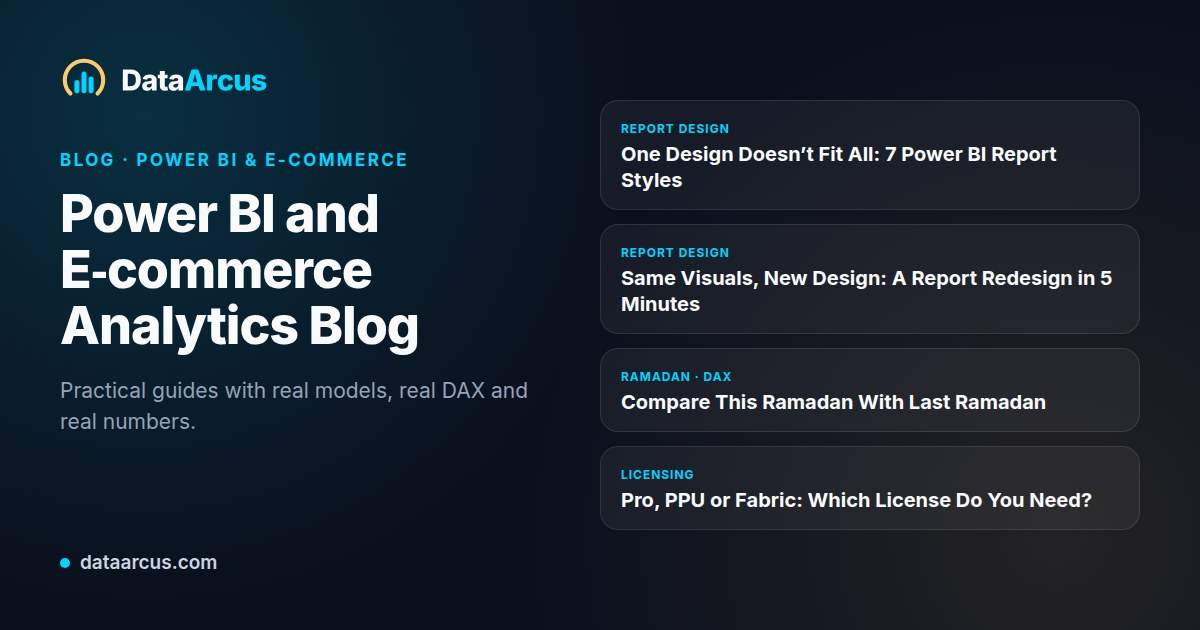
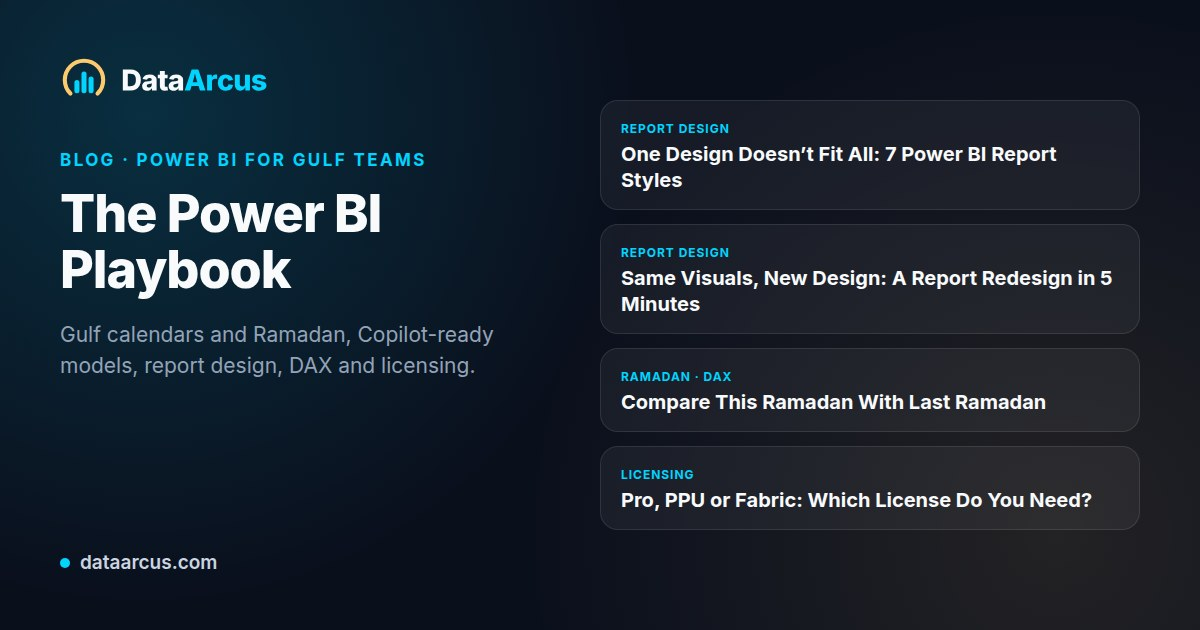
Blog: The Power BI Playbook, for Gulf teams (the owner's go: was The E-commerce Analytics Playbook)
The blog's title, header line, search description, keywords, structured data, newsletter
box and share image now describe what it covers: Gulf calendars and Ramadan,
Copilot-ready models, report design, DAX and licensing. English and Arabic. The section
line under 'Latest from the Playbook' no longer repeats the header. The newsletter no
longer promises 'monthly'. Article titles are unchanged.

Claude-Session: https://claude.ai/code/session_015Q77oNR7YVFznptSuZoZZ2

Changed region(s): [[0.0308, 0.3016, 0.4625, 0.6333], [0.185, 0.2413, 0.37, 0.2714], [0.0308, 0.6635, 0.1542, 0.6937]]

diff --git a/assets/js/translations/blog.min.js b/assets/js/translations/blog.min.js
@@ -1,1 +1,1 @@
-window.blogTranslations={en:{attrs:{search:"Search posts"},meta:{title:"Power BI and E-commerce Analytics Blog - DataArcus",description:"Practical guides for MENA e-commerce leaders on Power BI, data modeling, and analytics strategy. Learn to track CLV, optimize marketing ROI, and more.",keywords:"e-commerce analytics blog, Power BI for e-commerce, Shopify analytics, MENA e-commerce, customer lifetime value, DataArcus blog",author:"DataArcus","og:type":"website","og:title":"Power BI and E-commerce Analytics Blog - DataArcus","og:description":"Practical guides for MENA e-commerce leaders on Power BI, data modeling, and analytics strategy. Learn to track CLV, optimize marketing ROI, and more.","og:url":"https://dataarcus.com/blog.html","og:site_name":"DataArcus","og:image":"https://dataarcus.com/assets/img/og/blog.jpg","og:image:alt":"The DataArcus logo showing animated data bars and the brand name.","og:locale":"en_US","twitter:card":"summary_large_image","twitter:title":"Power BI and E-commerce Analytics Blog - DataArcus","twitter:description":"Practical guides for MENA e-commerce leaders on Power BI, data modeling, and analytics strategy. Learn to track CLV, optimize marketing ROI, and more.","twitter:image":"https://dataarcus.com/assets/img/og/blog.jpg","twitter:image:alt":"The DataArcus logo showing animated data bars and the brand name.",canonical:"https://dataarcus.com/blog.html"},header:{title:"The E-commerce Analytics Playbook",subtitle:"Practical, engineering-first guides for MENA e-commerce leaders on Power BI, data modeling, and growth strategy, written by someone who builds them every day."},filters:{all:"All",gulf:"Gulf & Ramadan",ai:"Copilot & AI",design:"Report design",modelling:"Modelling & DAX",strategy:"Strategy"},topics:{gulf:"GULF & RAMADAN",ai:"COPILOT & AI",design:"REPORT DESIGN",modelling:"MODELLING & DAX",strategy:"STRATEGY"},blog:{sectionTitle:"Latest from the Playbook",sectionSubtitle:"Practical Power BI guides from real work: Gulf calendars and Ramadan, Copilot-ready models, report design, DAX and licensing.",searchPlaceholder:"Search playbooks…",noResultsTitle:"No posts found",noResultsSubtext:"Try adjusting your search terms or filters."},posts:{gulfCalendar:{badge:"GULF CALENDAR",title:"A Gulf Calendar in Power BI: Hijri Dates, Ramadan, Eid and the Right Weekend",date:"October 3, 2026",excerpt:"Ramadan and Eid move, and the UAE changed its weekend in 2022. One DAX calendar with Hijri dates, announced Ramadan and Eid days, each country's weekend, and an Eid window measure.",button:"Read Playbook"},aiReady:{badge:"COPILOT & AI",title:"Is Your Power BI Model Ready for AI? A 7-Point Check",date:"October 2, 2026",excerpt:"Copilot, data agents and the new Power BI apps all answer from your semantic model. The 7 things to fix first, from names and descriptions to Prep data for AI.",button:"Read Playbook"},reportStyles:{badge:"REPORT DESIGN",title:"One Design Doesn’t Fit All: 7 Power BI Report Styles",date:"September 29, 2026",excerpt:"Executive, sales, finance, marketing, operations, HR and customer service reports each answer a different question. The 7 styles with example pages, and a 3-question quiz to pick yours.",button:"Read Playbook"},reportRedesign:{badge:"REPORT DESIGN",title:"Same Visuals, New Design: How We Redesigned a Power BI Report in 5 Minutes",date:"September 28, 2026",excerpt:"A leads report with the right visuals but loud colours and a messy layout. The five design changes that fixed it, and how to make them in 5 minutes with a free tool.",button:"Read Playbook"},modelHealth:{badge:"BEST PRACTICE",title:"We Ran a Health Check on a Microsoft Power BI Sample. It Scored 84.",date:"September 25, 2026",excerpt:"Microsoft's public COVID-19 sample, checked in under a second: a quarter of its columns unused, two bookmarks pointing at a deleted column and auto date/time left on. What we found and how to check yours.",button:"Read Playbook"},ramadanSales:{badge:"POWER BI",title:"Ramadan Sales in Power BI: Compare This Ramadan With Last Ramadan",date:"September 23, 2026",excerpt:"SAMEPERIODLASTYEAR compares March with March, but Ramadan moved 11 days. The Hijri calendar and the one DAX measure that line up every Ramadan day by day.",button:"Read Playbook"},licensingGuide:{badge:"STRATEGY",title:"Power BI Pro, Premium Per User or Fabric: Which License Do You Actually Need?",date:"September 23, 2026",excerpt:"One number decides your Power BI license: how many people only view reports. Current prices, the F64 break-even point and a worked example.",button:"Read Playbook"},journeyAttribution:{badge:"DATA ENGINEERING",title:"Resolve Once, Hydrate Many: A DAX Pattern for Lead Attribution",date:"September 1, 2026",excerpt:"Why matching the same lead five times produces disagreeing KPIs, and the single-resolution DAX pattern that matched every lead exactly before replacing scattered join logic.",button:"Read Playbook"},evm:{badge:"PROJECT ANALYTICS",title:'Beyond "Traffic Lights": How Earned Value Management (EVM) Predicts Project Risk',date:"December 10, 2025",excerpt:"Most project dashboards tell you what happened yesterday. Learn how to use CPI and SPI to mathematically forecast tomorrow's delays and budget overruns.",button:"Read Playbook"},shopify:{badge:"STRATEGY",title:"The Ultimate Shopify Dashboard: How to Build a Single Source of Truth in Power BI",date:"October 04, 2025",excerpt:"A playbook for e-commerce leaders on building a single source of truth from Shopify data in Power BI to track sales, marketing ROI, and customer behavior.",button:"Read Playbook"},kpis:{badge:"STRATEGY",title:"5 Marketing KPIs Your E-commerce Store is Ignoring",date:"September 15, 2025",excerpt:"Our new playbook dives into the advanced marketing analytics, including Customer Acquisition Cost (CAC) and Marketing Efficiency Ratio (MER), that drive profitable growth.",button:"Read Playbook"},etlpq:{badge:"DATA ENGINEERING",title:"ETL vs Power Query: The Right Data Strategy for Your E-commerce Store",date:"September 4, 2025",excerpt:"A practical framework for deciding when to use engineered pipelines for your Shopify/backend data vs. keeping logic in Power Query for marketing analytics.",button:"Read Playbook"},clv:{badge:"STRATEGY",title:"The One Metric That Defines Your E-commerce Future (And How to Track It)",date:"August 23, 2025",excerpt:"Why Customer Lifetime Value (not just revenue) is the north-star KPI for e-commerce growth, and a concrete path to model it in Power BI.",button:"Read Playbook"}},subscribe:{title:"Get the Next E-commerce Playbook",badge:"NO SPAM",copy:"A monthly, high-signal playbook on Power BI engineering and growth strategy for e-commerce leaders. No fluff-just what works.",button:"Subscribe for Free"}},ar:{attrs:{search:"ابحث في المقالات"},meta:{title:"مدونة Power BI وتحليلات التجارة الإلكترونية - داتا أركوس",description:"أدلة عملية لقادة التجارة الإلكترونية في الشرق الأوسط حول Power BI ونمذجة البيانات: تتبّع القيمة الدائمة للعميل وحسّن عائد التسويق والمزيد.",keywords:"مدونة تحليلات التجارة الإلكترونية, Power BI للتجارة الإلكترونية, تحليلات Shopify, التجارة الإلكترونية في الشرق الأوسط, القيمة الدائمة للعميل, مدونة DataArcus",author:"داتا أركوس","og:type":"website","og:title":"مدونة Power BI وتحليلات التجارة الإلكترونية - داتا أركوس","og:description":"أدلة عملية لقادة التجارة الإلكترونية في الشرق الأوسط حول Power BI ونمذجة البيانات: تتبّع القيمة الدائمة للعميل وحسّن عائد التسويق والمزيد.","og:url":"https://dataarcus.com/blog.html","og:site_name":"داتا أركوس","og:image":"https://dataarcus.com/assets/img/og/blog.jpg","og:image:alt":"شعار داتا أركوس مع أعمدة بيانات متحركة واسم العلامة التجارية.","og:locale":"ar_EG","twitter:card":"summary_large_image","twitter:title":"مدونة Power BI وتحليلات التجارة الإلكترونية - داتا أركوس","twitter:description":"أدلة عملية لقادة التجارة الإلكترونية في الشرق الأوسط حول Power BI ونمذجة البيانات: تتبّع القيمة الدائمة للعميل وحسّن عائد التسويق والمزيد.","twitter:image":"https://dataarcus.com/assets/img/og/blog.jpg","twitter:image:alt":"شعار داتا أركوس مع أعمدة بيانات متحركة واسم العلامة التجارية.",canonical:"https://dataarcus.com/blog.html"},header:{title:"دليل تحليلات التجارة الإلكترونية",subtitle:"أدلة عملية ذات أساس هندسي لقادة التجارة الإلكترونية في الشرق الأوسط حول Power BI، ونمذجة البيانات، واستراتيجية النمو، يكتبها من يبنيها كل يوم."},filters:{all:"الكل",gulf:"الخليج ورمضان",ai:"Copilot والذكاء الاصطناعي",design:"تصميم التقارير",modelling:"النمذجة و DAX",strategy:"استراتيجية"},topics:{gulf:"الخليج ورمضان",ai:"Copilot والذكاء الاصطناعي",design:"تصميم التقارير",modelling:"النمذجة و DAX",strategy:"استراتيجية"},blog:{sectionTitle:"أحدث الأدلة الإرشادية",sectionSubtitle:"أدلة Power BI عملية من عمل حقيقي: التقويم الخليجي ورمضان، نماذج جاهزة لـ Copilot، تصميم التقارير، DAX والتراخيص.",searchPlaceholder:"ابحث في الأدلة…",noResultsTitle:"لم يتم العثور على مقالات",noResultsSubtext:"حاول تعديل كلمات البحث أو الفلاتر."},posts:{gulfCalendar:{badge:"التقويم الخليجي",title:"تقويم خليجي في Power BI: التاريخ الهجري ورمضان والعيد والعطلة الصحيحة",date:"3 أكتوبر 2026",excerpt:"رمضان والعيد يتحركان، والإمارات غيّرت عطلتها في 2022. تقويم DAX واحد بالتاريخ الهجري، ومواعيد رمضان والعيد المعلنة، وعطلة كل دولة، ومقياس لفترة العيد.",button:"اقرأ الدليل"},aiReady:{badge:"Copilot والذكاء الاصطناعي",title:"هل نموذج Power BI جاهز للذكاء الاصطناعي؟ فحص من 7 نقاط",date:"2 أكتوبر 2026",excerpt:"Copilot ووكلاء البيانات وتطبيقات Power BI الجديدة كلها تجيب من نموذجك الدلالي. سبعة أمور تصلحها أولًا، من الأسماء والأوصاف إلى Prep data for AI.",button:"اقرأ الدليل"},reportStyles:{badge:"تصميم التقارير",title:"تصميم واحد لا يناسب الجميع: 7 أنماط لتقارير Power BI",date:"29 سبتمبر 2026",excerpt:"تقارير الإدارة والمبيعات والمالية والتسويق والعمليات والموارد البشرية وخدمة العملاء تجيب كل منها عن سؤال مختلف. الأنماط السبعة بصفحات أمثلة، واختبار من 3 أسئلة لاختيار نمطك.",button:"اقرأ الدليل"},reportRedesign:{badge:"تصميم التقارير",title:"نفس العناصر، تصميم جديد: كيف أعدنا تصميم تقرير Power BI في 5 دقائق",date:"28 سبتمبر 2026",excerpt:"تقرير عملاء محتملين بالعناصر الصحيحة لكن بألوان صاخبة وتخطيط فوضوي. خمسة تغييرات في التصميم أصلحته، وكيف تطبقها في 5 دقائق بأداة مجانية.",button:"اقرأ الدليل"},modelHealth:{badge:"أفضل الممارسات",title:"فحصنا صحة نموذج Power BI تجريبي من Microsoft. النتيجة: 84 من 100.",date:"25 سبتمبر 2026",excerpt:"نموذج COVID-19 التجريبي العام من Microsoft فُحص في أقل من ثانية: ربع الأعمدة غير مستخدمة، وإشارتان مرجعيتان تشيران إلى عمود محذوف، وخيار Auto date/time مفعّل. هذا ما وجدناه وكيف تفحص نموذجك.",button:"اقرأ الدليل"},ramadanSales:{badge:"Power BI",title:"مبيعات رمضان في Power BI: قارن رمضان هذا العام برمضان الماضي",date:"23 سبتمبر 2026",excerpt:"تقارن SAMEPERIODLASTYEAR مارس بمارس، لكن رمضان تحرّك 11 يومًا. التقويم الهجري ومقياس DAX الذي يطابق كل رمضان يومًا بيوم.",button:"اقرأ الدليل"},licensingGuide:{badge:"استراتيجية",title:"Power BI Pro أم Premium Per User أم Fabric: أي ترخيص تحتاجه فعلًا؟",date:"23 سبتمبر 2026",excerpt:"رقم واحد يحسم ترخيص Power BI: عدد من يشاهدون التقارير فقط. الأسعار الحالية ونقطة التعادل لـ F64 ومثال عملي.",button:"اقرأ الدليل"},journeyAttribution:{badge:"هندسة البيانات",title:"حلّ مرة واحدة، غذِّ كل مكان: نمط DAX لعزو العملاء المحتملين",date:"1 سبتمبر 2026",excerpt:"لماذا تُنتج مطابقة نفس العميل المحتمل خمس مرات مؤشرات أداء متضاربة، ونمط DAX الذي وثّق تطابق كل عميل محتمل قبل استبدال منطق الربط المتناثر.",button:"اقرأ الدليل"},evm:{badge:"تحليلات المشاريع",title:'ما وراء "إشارات المرور": كيف تتنبأ إدارة القيمة المكتسبة (EVM) بمخاطر المشروع',date:"10 ديسمبر 2025",excerpt:"تخبرك معظم لوحات المعلومات بما حدث بالأمس. تعلم كيف تستخدم CPI و SPI للتنبؤ رياضيًا بالتأخيرات وتجاوز الميزانية قبل حدوثها.",button:"اقرأ الدليل"},shopify:{badge:"استراتيجية",title:"دليل لقادة التجارة الإلكترونية حول بناء مصدر موحد للحقيقة من بيانات Shopify في Power BI.",date:"04 اكتوبر 2025",excerpt:"دليل لقادة التجارة الإلكترونية حول بناء مصدر موحد للحقيقة من بيانات Shopify في Power BI لتتبع المبيعات وعائد الاستثمار التسويقي وسلوك العملاء.",button:"اقرأ الدليل"},kpis:{badge:"استراتيجية",title:"5 مؤشرات أداء تسويقية يتجاهلها متجرك الإلكتروني",date:"15 سبتمبر 2025",excerpt:"يتعمق دليلنا الجديد في تحليلات التسويق المتقدمة، بما في ذلك تكلفة اكتساب العملاء (CAC) ونسبة كفاءة التسويق (MER)، التي تدفع النمو المربح.",button:"اقرأ الدليل"},etlpq:{badge:"هندسة البيانات",title:"ETL مقابل Power Query: استراتيجية البيانات الصحيحة لمتجرك الإلكتروني",date:"4 سبتمبر 2025",excerpt:"إطار عملي لاتخاذ قرار بشأن متى تستخدم خطوط البيانات الهندسية لبيانات Shopify ومتى تحتفظ بالمنطق في Power Query لتحليلات التسويق.",button:"اقرأ الدليل"},clv:{badge:"استراتيجية",title:"المقياس الوحيد الذي يحدد مستقبل تجارتك الإلكترونية (وكيفية تتبعه)",date:"23 أغسطس 2025",excerpt:"لماذا تُعد القيمة الدائمة للعميل (وليس فقط الإيرادات) هي مؤشر الأداء الرئيسي لنمو التجارة الإلكترونية، ومسار عملي لنمذجتها في Power BI.",button:"اقرأ الدليل"}},subscribe:{title:"احصل على الدليل القادم لمتجرك",badge:"لا رسائل مزعجة",copy:"دليل شهري عالي القيمة حول هندسة Power BI واستراتيجية النمو لقادة التجارة الإلكترونية. لا حشو-فقط ما هو فعال.",button:"اشترك مجانًا"}}};
+window.blogTranslations={en:{attrs:{search:"Search posts"},meta:{title:"The Power BI Playbook: Guides for Gulf Teams - DataArcus",description:"Practical Power BI guides from real work for teams in the Gulf: Gulf calendars and Ramadan, Copilot-ready models, report design, DAX and licensing.",keywords:"Power BI blog, Power BI Gulf, Hijri calendar Power BI, Ramadan sales Power BI, Copilot Power BI, Power BI report design, DAX, Power BI licensing, DataArcus blog",author:"DataArcus","og:type":"website","og:title":"The Power BI Playbook: Guides for Gulf Teams - DataArcus","og:description":"Practical Power BI guides from real work for teams in the Gulf: Gulf calendars and Ramadan, Copilot-ready models, report design, DAX and licensing.","og:url":"https://dataarcus.com/blog.html","og:site_name":"DataArcus","og:image":"https://dataarcus.com/assets/img/og/blog.jpg","og:image:alt":"The DataArcus logo showing animated data bars and the brand name.","og:locale":"en_US","twitter:card":"summary_large_image","twitter:title":"The Power BI Playbook: Guides for Gulf Teams - DataArcus","twitter:description":"Practical Power BI guides from real work for teams in the Gulf: Gulf calendars and Ramadan, Copilot-ready models, report design, DAX and licensing.","twitter:image":"https://dataarcus.com/assets/img/og/blog.jpg","twitter:image:alt":"The DataArcus logo showing animated data bars and the brand name.",canonical:"https://dataarcus.com/blog.html"},header:{title:"The Power BI Playbook",subtitle:"Practical Power BI guides from real work for teams in the Gulf: Gulf calendars and Ramadan, Copilot-ready models, report design, DAX and licensing."},filters:{all:"All",gulf:"Gulf & Ramadan",ai:"Copilot & AI",design:"Report design",modelling:"Modelling & DAX",strategy:"Strategy"},topics:{gulf:"GULF & RAMADAN",ai:"COPILOT & AI",design:"REPORT DESIGN",modelling:"MODELLING & DAX",strategy:"STRATEGY"},blog:{sectionTitle:"Latest from the Playbook",sectionSubtitle:"Newest first. Pick a topic or search.",searchPlaceholder:"Search playbooks…",noResultsTitle:"No posts found",noResultsSubtext:"Try adjusting your search terms or filters."},posts:{gulfCalendar:{badge:"GULF CALENDAR",title:"A Gulf Calendar in Power BI: Hijri Dates, Ramadan, Eid and the Right Weekend",date:"October 3, 2026",excerpt:"Ramadan and Eid move, and the UAE changed its weekend in 2022. One DAX calendar with Hijri dates, announced Ramadan and Eid days, each country's weekend, and an Eid window measure.",button:"Read Playbook"},aiReady:{badge:"COPILOT & AI",title:"Is Your Power BI Model Ready for AI? A 7-Point Check",date:"October 2, 2026",excerpt:"Copilot, data agents and the new Power BI apps all answer from your semantic model. The 7 things to fix first, from names and descriptions to Prep data for AI.",button:"Read Playbook"},reportStyles:{badge:"REPORT DESIGN",title:"One Design Doesn’t Fit All: 7 Power BI Report Styles",date:"September 29, 2026",excerpt:"Executive, sales, finance, marketing, operations, HR and customer service reports each answer a different question. The 7 styles with example pages, and a 3-question quiz to pick yours.",button:"Read Playbook"},reportRedesign:{badge:"REPORT DESIGN",title:"Same Visuals, New Design: How We Redesigned a Power BI Report in 5 Minutes",date:"September 28, 2026",excerpt:"A leads report with the right visuals but loud colours and a messy layout. The five design changes that fixed it, and how to make them in 5 minutes with a free tool.",button:"Read Playbook"},modelHealth:{badge:"BEST PRACTICE",title:"We Ran a Health Check on a Microsoft Power BI Sample. It Scored 84.",date:"September 25, 2026",excerpt:"Microsoft's public COVID-19 sample, checked in under a second: a quarter of its columns unused, two bookmarks pointing at a deleted column and auto date/time left on. What we found and how to check yours.",button:"Read Playbook"},ramadanSales:{badge:"POWER BI",title:"Ramadan Sales in Power BI: Compare This Ramadan With Last Ramadan",date:"September 23, 2026",excerpt:"SAMEPERIODLASTYEAR compares March with March, but Ramadan moved 11 days. The Hijri calendar and the one DAX measure that line up every Ramadan day by day.",button:"Read Playbook"},licensingGuide:{badge:"STRATEGY",title:"Power BI Pro, Premium Per User or Fabric: Which License Do You Actually Need?",date:"September 23, 2026",excerpt:"One number decides your Power BI license: how many people only view reports. Current prices, the F64 break-even point and a worked example.",button:"Read Playbook"},journeyAttribution:{badge:"DATA ENGINEERING",title:"Resolve Once, Hydrate Many: A DAX Pattern for Lead Attribution",date:"September 1, 2026",excerpt:"Why matching the same lead five times produces disagreeing KPIs, and the single-resolution DAX pattern that matched every lead exactly before replacing scattered join logic.",button:"Read Playbook"},evm:{badge:"PROJECT ANALYTICS",title:'Beyond "Traffic Lights": How Earned Value Management (EVM) Predicts Project Risk',date:"December 10, 2025",excerpt:"Most project dashboards tell you what happened yesterday. Learn how to use CPI and SPI to mathematically forecast tomorrow's delays and budget overruns.",button:"Read Playbook"},shopify:{badge:"STRATEGY",title:"The Ultimate Shopify Dashboard: How to Build a Single Source of Truth in Power BI",date:"October 04, 2025",excerpt:"A playbook for e-commerce leaders on building a single source of truth from Shopify data in Power BI to track sales, marketing ROI, and customer behavior.",button:"Read Playbook"},kpis:{badge:"STRATEGY",title:"5 Marketing KPIs Your E-commerce Store is Ignoring",date:"September 15, 2025",excerpt:"Our new playbook dives into the advanced marketing analytics, including Customer Acquisition Cost (CAC) and Marketing Efficiency Ratio (MER), that drive profitable growth.",button:"Read Playbook"},etlpq:{badge:"DATA ENGINEERING",title:"ETL vs Power Query: The Right Data Strategy for Your E-commerce Store",date:"September 4, 2025",excerpt:"A practical framework for deciding when to use engineered pipelines for your Shopify/backend data vs. keeping logic in Power Query for marketing analytics.",button:"Read Playbook"},clv:{badge:"STRATEGY",title:"The One Metric That Defines Your E-commerce Future (And How to Track It)",date:"August 23, 2025",excerpt:"Why Customer Lifetime Value (not just revenue) is the north-star KPI for e-commerce growth, and a concrete path to model it in Power BI.",button:"Read Playbook"}},subscribe:{title:"Get the Next Power BI Guide",badge:"NO SPAM",copy:"New guides as they come out: Power BI for teams in the Gulf, from real work. No fluff, just what works.",button:"Subscribe for Free"}},ar:{attrs:{search:"ابحث في المقالات"},meta:{title:"دليل Power BI: أدلة لفرق الخليج - داتا أركوس",description:"أدلة Power BI عملية من عمل حقيقي لفرق الخليج: التقويم الخليجي ورمضان، نماذج جاهزة لـ Copilot، تصميم التقارير، DAX والتراخيص.",keywords:"مدونة Power BI, Power BI الخليج, التقويم الهجري في Power BI, مبيعات رمضان في Power BI, Copilot في Power BI, تصميم تقارير Power BI, DAX, تراخيص Power BI, مدونة DataArcus",author:"داتا أركوس","og:type":"website","og:title":"دليل Power BI: أدلة لفرق الخليج - داتا أركوس","og:description":"أدلة Power BI عملية من عمل حقيقي لفرق الخليج: التقويم الخليجي ورمضان، نماذج جاهزة لـ Copilot، تصميم التقارير، DAX والتراخيص.","og:url":"https://dataarcus.com/blog.html","og:site_name":"داتا أركوس","og:image":"https://dataarcus.com/assets/img/og/blog.jpg","og:image:alt":"شعار داتا أركوس مع أعمدة بيانات متحركة واسم العلامة التجارية.","og:locale":"ar_EG","twitter:card":"summary_large_image","twitter:title":"دليل Power BI: أدلة لفرق الخليج - داتا أركوس","twitter:description":"أدلة Power BI عملية من عمل حقيقي لفرق الخليج: التقويم الخليجي ورمضان، نماذج جاهزة لـ Copilot، تصميم التقارير، DAX والتراخيص.","twitter:image":"https://dataarcus.com/assets/img/og/blog.jpg","twitter:image:alt":"شعار داتا أركوس مع أعمدة بيانات متحركة واسم العلامة التجارية.",canonical:"https://dataarcus.com/blog.html"},header:{title:"دليل Power BI",subtitle:"أدلة Power BI عملية من عمل حقيقي لفرق الخليج: التقويم الخليجي ورمضان، نماذج جاهزة لـ Copilot، تصميم التقارير، DAX والتراخيص."},filters:{all:"الكل",gulf:"الخليج ورمضان",ai:"Copilot والذكاء الاصطناعي",design:"تصميم التقارير",modelling:"النمذجة و DAX",strategy:"استراتيجية"},topics:{gulf:"الخليج ورمضان",ai:"Copilot والذكاء الاصطناعي",design:"تصميم التقارير",modelling:"النمذجة و DAX",strategy:"استراتيجية"},blog:{sectionTitle:"أحدث الأدلة الإرشادية",sectionSubtitle:"الأحدث أولاً. اختر موضوعًا أو ابحث.",searchPlaceholder:"ابحث في الأدلة…",noResultsTitle:"لم يتم العثور على مقالات",noResultsSubtext:"حاول تعديل كلمات البحث أو الفلاتر."},posts:{gulfCalendar:{badge:"التقويم الخليجي",title:"تقويم خليجي في Power BI: التاريخ الهجري ورمضان والعيد والعطلة الصحيحة",date:"3 أكتوبر 2026",excerpt:"رمضان والعيد يتحركان، والإمارات غيّرت عطلتها في 2022. تقويم DAX واحد بالتاريخ الهجري، ومواعيد رمضان والعيد المعلنة، وعطلة كل دولة، ومقياس لفترة العيد.",button:"اقرأ الدليل"},aiReady:{badge:"Copilot والذكاء الاصطناعي",title:"هل نموذج Power BI جاهز للذكاء الاصطناعي؟ فحص من 7 نقاط",date:"2 أكتوبر 2026",excerpt:"Copilot ووكلاء البيانات وتطبيقات Power BI الجديدة كلها تجيب من نموذجك الدلالي. سبعة أمور تصلحها أولًا، من الأسماء والأوصاف إلى Prep data for AI.",button:"اقرأ الدليل"},reportStyles:{badge:"تصميم التقارير",title:"تصميم واحد لا يناسب الجميع: 7 أنماط لتقارير Power BI",date:"29 سبتمبر 2026",excerpt:"تقارير الإدارة والمبيعات والمالية والتسويق والعمليات والموارد البشرية وخدمة العملاء تجيب كل منها عن سؤال مختلف. الأنماط السبعة بصفحات أمثلة، واختبار من 3 أسئلة لاختيار نمطك.",button:"اقرأ الدليل"},reportRedesign:{badge:"تصميم التقارير",title:"نفس العناصر، تصميم جديد: كيف أعدنا تصميم تقرير Power BI في 5 دقائق",date:"28 سبتمبر 2026",excerpt:"تقرير عملاء محتملين بالعناصر الصحيحة لكن بألوان صاخبة وتخطيط فوضوي. خمسة تغييرات في التصميم أصلحته، وكيف تطبقها في 5 دقائق بأداة مجانية.",button:"اقرأ الدليل"},modelHealth:{badge:"أفضل الممارسات",title:"فحصنا صحة نموذج Power BI تجريبي من Microsoft. النتيجة: 84 من 100.",date:"25 سبتمبر 2026",excerpt:"نموذج COVID-19 التجريبي العام من Microsoft فُحص في أقل من ثانية: ربع الأعمدة غير مستخدمة، وإشارتان مرجعيتان تشيران إلى عمود محذوف، وخيار Auto date/time مفعّل. هذا ما وجدناه وكيف تفحص نموذجك.",button:"اقرأ الدليل"},ramadanSales:{badge:"Power BI",title:"مبيعات رمضان في Power BI: قارن رمضان هذا العام برمضان الماضي",date:"23 سبتمبر 2026",excerpt:"تقارن SAMEPERIODLASTYEAR مارس بمارس، لكن رمضان تحرّك 11 يومًا. التقويم الهجري ومقياس DAX الذي يطابق كل رمضان يومًا بيوم.",button:"اقرأ الدليل"},licensingGuide:{badge:"استراتيجية",title:"Power BI Pro أم Premium Per User أم Fabric: أي ترخيص تحتاجه فعلًا؟",date:"23 سبتمبر 2026",excerpt:"رقم واحد يحسم ترخيص Power BI: عدد من يشاهدون التقارير فقط. الأسعار الحالية ونقطة التعادل لـ F64 ومثال عملي.",button:"اقرأ الدليل"},journeyAttribution:{badge:"هندسة البيانات",title:"حلّ مرة واحدة، غذِّ كل مكان: نمط DAX لعزو العملاء المحتملين",date:"1 سبتمبر 2026",excerpt:"لماذا تُنتج مطابقة نفس العميل المحتمل خمس مرات مؤشرات أداء متضاربة، ونمط DAX الذي وثّق تطابق كل عميل محتمل قبل استبدال منطق الربط المتناثر.",button:"اقرأ الدليل"},evm:{badge:"تحليلات المشاريع",title:'ما وراء "إشارات المرور": كيف تتنبأ إدارة القيمة المكتسبة (EVM) بمخاطر المشروع',date:"10 ديسمبر 2025",excerpt:"تخبرك معظم لوحات المعلومات بما حدث بالأمس. تعلم كيف تستخدم CPI و SPI للتنبؤ رياضيًا بالتأخيرات وتجاوز الميزانية قبل حدوثها.",button:"اقرأ الدليل"},shopify:{badge:"استراتيجية",title:"دليل لقادة التجارة الإلكترونية حول بناء مصدر موحد للحقيقة من بيانات Shopify في Power BI.",date:"04 اكتوبر 2025",excerpt:"دليل لقادة التجارة الإلكترونية حول بناء مصدر موحد للحقيقة من بيانات Shopify في Power BI لتتبع المبيعات وعائد الاستثمار التسويقي وسلوك العملاء.",button:"اقرأ الدليل"},kpis:{badge:"استراتيجية",title:"5 مؤشرات أداء تسويقية يتجاهلها متجرك الإلكتروني",date:"15 سبتمبر 2025",excerpt:"يتعمق دليلنا الجديد في تحليلات التسويق المتقدمة، بما في ذلك تكلفة اكتساب العملاء (CAC) ونسبة كفاءة التسويق (MER)، التي تدفع النمو المربح.",button:"اقرأ الدليل"},etlpq:{badge:"هندسة البيانات",title:"ETL مقابل Power Query: استراتيجية البيانات الصحيحة لمتجرك الإلكتروني",date:"4 سبتمبر 2025",excerpt:"إطار عملي لاتخاذ قرار بشأن متى تستخدم خطوط البيانات الهندسية لبيانات Shopify ومتى تحتفظ بالمنطق في Power Query لتحليلات التسويق.",button:"اقرأ الدليل"},clv:{badge:"استراتيجية",title:"المقياس الوحيد الذي يحدد مستقبل تجارتك الإلكترونية (وكيفية تتبعه)",date:"23 أغسطس 2025",excerpt:"لماذا تُعد القيمة الدائمة للعميل (وليس فقط الإيرادات) هي مؤشر الأداء الرئيسي لنمو التجارة الإلكترونية، ومسار عملي لنمذجتها في Power BI.",button:"اقرأ الدليل"}},subscribe:{title:"احصل على دليل Power BI القادم",badge:"لا رسائل مزعجة",copy:"أدلة جديدة عند صدورها: Power BI لفرق الخليج، من عمل حقيقي. لا حشو، فقط ما ينفع.",button:"اشترك مجانًا"}}};

diff --git a/assets/js/translations/blog.js b/assets/js/translations/blog.js
@@ -6,21 +6,21 @@ window.blogTranslations = {
     },
     // Meta (for inclusion in blog.html if needed)
     meta: {
-      title: "Power BI and E-commerce Analytics Blog - DataArcus",
-      description: "Practical guides for MENA e-commerce leaders on Power BI, data modeling, and analytics strategy. Learn to track CLV, optimize marketing ROI, and more.",
-      keywords: "e-commerce analytics blog, Power BI for e-commerce, Shopify analytics, MENA e-commerce, customer lifetime value, DataArcus blog",
+      title: "The Power BI Playbook: Guides for Gulf Teams - DataArcus",
+      description: "Practical Power BI guides from real work for teams in the Gulf: Gulf calendars and Ramadan, Copilot-ready models, report design, DAX and licensing.",
+      keywords: "Power BI blog, Power BI Gulf, Hijri calendar Power BI, Ramadan sales Power BI, Copilot Power BI, Power BI report design, DAX, Power BI licensing, DataArcus blog",
       author: "DataArcus",
       "og:type": "website",
-      "og:title": "Power BI and E-commerce Analytics Blog - DataArcus",
-      "og:description": "Practical guides for MENA e-commerce leaders on Power BI, data modeling, and analytics strategy. Learn to track CLV, optimize marketing ROI, and more.",
+      "og:title": "The Power BI Playbook: Guides for Gulf Teams - DataArcus",
+      "og:description": "Practical Power BI guides from real work for teams in the Gulf: Gulf calendars and Ramadan, Copilot-ready models, report design, DAX and licensing.",
       "og:url": "https://dataarcus.com/blog.html",
       "og:site_name": "DataArcus",
       "og:image": "https://dataarcus.com/assets/img/og/blog.jpg",
       "og:image:alt": "The DataArcus logo showing animated data bars and the brand name.",
       "og:locale": "en_US",
       "twitter:card": "summary_large_image",
-      "twitter:title": "Power BI and E-commerce Analytics Blog - DataArcus",
-      "twitter:description": "Practical guides for MENA e-commerce leaders on Power BI, data modeling, and analytics strategy. Learn to track CLV, optimize marketing ROI, and more.",
+      "twitter:title": "The Power BI Playbook: Guides for Gulf Teams - DataArcus",
+      "twitter:description": "Practical Power BI guides from real work for teams in the Gulf: Gulf calendars and Ramadan, Copilot-ready models, report design, DAX and licensing.",
       "twitter:image": "https://dataarcus.com/assets/img/og/blog.jpg",
       "twitter:image:alt": "The DataArcus logo showing animated data bars and the brand name.",
       canonical: "https://dataarcus.com/blog.html",
@@ -28,8 +28,8 @@ window.blogTranslations = {
     
     // Header
     header: {
-      title: "The E-commerce Analytics Playbook",
-      subtitle: "Practical, engineering-first guides for MENA e-commerce leaders on Power BI, data modeling, and growth strategy, written by someone who builds them every day."
+      title: "The Power BI Playbook",
+      subtitle: "Practical Power BI guides from real work for teams in the Gulf: Gulf calendars and Ramadan, Copilot-ready models, report design, DAX and licensing."
     },
 
     // Filters / Search
@@ -51,7 +51,7 @@ window.blogTranslations = {
     },
     blog: {
       sectionTitle: "Latest from the Playbook",
-      sectionSubtitle: "Practical Power BI guides from real work: Gulf calendars and Ramadan, Copilot-ready models, report design, DAX and licensing.",
+      sectionSubtitle: "Newest first. Pick a topic or search.",
       searchPlaceholder: "Search playbooks…",
       noResultsTitle: "No posts found",
       noResultsSubtext: "Try adjusting your search terms or filters."
@@ -142,9 +142,9 @@ window.blogTranslations = {
 
     // Subscribe / CTA
     subscribe: {
-      title: "Get the Next E-commerce Playbook",
+      title: "Get the Next Power BI Guide",
       badge: "NO SPAM",
-      copy: "A monthly, high-signal playbook on Power BI engineering and growth strategy for e-commerce leaders. No fluff-just what works.",
+      copy: "New guides as they come out: Power BI for teams in the Gulf, from real work. No fluff, just what works.",
       button: "Subscribe for Free"
     }
   },
@@ -155,21 +155,21 @@ window.blogTranslations = {
     },
     // Meta (AR)
     meta: {
-      title: "مدونة Power BI وتحليلات التجارة الإلكترونية - داتا أركوس",
-      description: "أدلة عملية لقادة التجارة الإلكترونية في الشرق الأوسط حول Power BI ونمذجة البيانات: تتبّع القيمة الدائمة للعميل وحسّن عائد التسويق والمزيد.",
-      keywords: "مدونة تحليلات التجارة الإلكترونية, Power BI للتجارة الإلكترونية, تحليلات Shopify, التجارة الإلكترونية في الشرق الأوسط, القيمة الدائمة للعميل, مدونة DataArcus",
+      title: "دليل Power BI: أدلة لفرق الخليج - داتا أركوس",
+      description: "أدلة Power BI عملية من عمل حقيقي لفرق الخليج: التقويم الخليجي ورمضان، نماذج جاهزة لـ Copilot، تصميم التقارير، DAX والتراخيص.",
+      keywords: "مدونة Power BI, Power BI الخليج, التقويم الهجري في Power BI, مبيعات رمضان في Power BI, Copilot في Power BI, تصميم تقارير Power BI, DAX, تراخيص Power BI, مدونة DataArcus",
       author: "داتا أركوس",
       "og:type": "website",
-      "og:title": "مدونة Power BI وتحليلات التجارة الإلكترونية - داتا أركوس",
-      "og:description": "أدلة عملية لقادة التجارة الإلكترونية في الشرق الأوسط حول Power BI ونمذجة البيانات: تتبّع القيمة الدائمة للعميل وحسّن عائد التسويق والمزيد.",
+      "og:title": "دليل Power BI: أدلة لفرق الخليج - داتا أركوس",
+      "og:description": "أدلة Power BI عملية من عمل حقيقي لفرق الخليج: التقويم الخليجي ورمضان، نماذج جاهزة لـ Copilot، تصميم التقارير، DAX والتراخيص.",
       "og:url": "https://dataarcus.com/blog.html",
       "og:site_name": "داتا أركوس",
       "og:image": "https://dataarcus.com/assets/img/og/blog.jpg",
       "og:image:alt": "شعار داتا أركوس مع أعمدة بيانات متحركة واسم العلامة التجارية.",
       "og:locale": "ar_EG",
       "twitter:card": "summary_large_image",
-      "twitter:title": "مدونة Power BI وتحليلات التجارة الإلكترونية - داتا أركوس",
-      "twitter:description": "أدلة عملية لقادة التجارة الإلكترونية في الشرق الأوسط حول Power BI ونمذجة البيانات: تتبّع القيمة الدائمة للعميل وحسّن عائد التسويق والمزيد.",
+      "twitter:title": "دليل Power BI: أدلة لفرق الخليج - داتا أركوس",
+      "twitter:description": "أدلة Power BI عملية من عمل حقيقي لفرق الخليج: التقويم الخليجي ورمضان، نماذج جاهزة لـ Copilot، تصميم التقارير، DAX والتراخيص.",
       "twitter:image": "https://dataarcus.com/assets/img/og/blog.jpg",
       "twitter:image:alt": "شعار داتا أركوس مع أعمدة بيانات متحركة واسم العلامة التجارية.",
       canonical: "https://dataarcus.com/blog.html",
@@ -177,8 +177,8 @@ window.blogTranslations = {
 
     // Header (AR)
     header: {
-      title: "دليل تحليلات التجارة الإلكترونية",
-      subtitle: "أدلة عملية ذات أساس هندسي لقادة التجارة الإلكترونية في الشرق الأوسط حول Power BI، ونمذجة البيانات، واستراتيجية النمو، يكتبها من يبنيها كل يوم."
+      title: "دليل Power BI",
+      subtitle: "أدلة Power BI عملية من عمل حقيقي لفرق الخليج: التقويم الخليجي ورمضان، نماذج جاهزة لـ Copilot، تصميم التقارير، DAX والتراخيص."
     },
 
     // Filters / Search (AR)
@@ -199,7 +199,7 @@ window.blogTranslations = {
     },
     blog: {
       sectionTitle: "أحدث الأدلة الإرشادية",
-      sectionSubtitle: "أدلة Power BI عملية من عمل حقيقي: التقويم الخليجي ورمضان، نماذج جاهزة لـ Copilot، تصميم التقارير، DAX والتراخيص.",
+      sectionSubtitle: "الأحدث أولاً. اختر موضوعًا أو ابحث.",
       searchPlaceholder: "ابحث في الأدلة…",
       noResultsTitle: "لم يتم العثور على مقالات",
       noResultsSubtext: "حاول تعديل كلمات البحث أو الفلاتر."
@@ -290,9 +290,9 @@ window.blogTranslations = {
 
     // Subscribe / CTA (AR)
     subscribe: {
-      title: "احصل على الدليل القادم لمتجرك",
+      title: "احصل على دليل Power BI القادم",
       badge: "لا رسائل مزعجة",
-      copy: "دليل شهري عالي القيمة حول هندسة Power BI واستراتيجية النمو لقادة التجارة الإلكترونية. لا حشو-فقط ما هو فعال.",
+      copy: "أدلة جديدة عند صدورها: Power BI لفرق الخليج، من عمل حقيقي. لا حشو، فقط ما ينفع.",
       button: "اشترك مجانًا"
     }
   }

diff --git a/blog.html b/blog.html
@@ -10,14 +10,14 @@
   <meta name="robots" content="index, follow" />
   <link rel="canonical" href="https://dataarcus.com/blog.html" />
 
-  <title>Power BI and E-commerce Analytics Blog - DataArcus</title>
-  <meta name="description" content="Practical guides for MENA e-commerce leaders on Power BI, data modeling, and analytics strategy. Learn to track CLV, optimize marketing ROI, and more." />
+  <title>The Power BI Playbook: Guides for Gulf Teams - DataArcus</title>
+  <meta name="description" content="Practical Power BI guides from real work for teams in the Gulf: Gulf calendars and Ramadan, Copilot-ready models, report design, DAX and licensing." />
   <meta name="author" content="DataArcus" />
-  <meta name="keywords" content="e-commerce analytics blog, Power BI for e-commerce, Shopify analytics, MENA e-commerce, customer lifetime value, DataArcus blog" />
+  <meta name="keywords" content="Power BI blog, Power BI Gulf, Hijri calendar Power BI, Ramadan sales Power BI, Copilot Power BI, Power BI report design, DAX, Power BI licensing, DataArcus blog" />
 
   <meta property="og:type" content="website" />
-  <meta property="og:title" content="Power BI and E-commerce Analytics Blog - DataArcus" />
-  <meta property="og:description" content="Practical guides for MENA e-commerce leaders on Power BI, data modeling, and analytics strategy. Learn to track CLV, optimize marketing ROI, and more." />
+  <meta property="og:title" content="The Power BI Playbook: Guides for Gulf Teams - DataArcus" />
+  <meta property="og:description" content="Practical Power BI guides from real work for teams in the Gulf: Gulf calendars and Ramadan, Copilot-ready models, report design, DAX and licensing." />
   <meta property="og:url" content="https://dataarcus.com/blog.html" />
   <meta property="og:site_name" content="DataArcus" />
   <meta property="og:image" content="https://dataarcus.com/assets/img/og/blog.jpg" />
@@ -28,8 +28,8 @@
   <meta property="og:locale" content="en_US" />
 
   <meta name="twitter:card" content="summary_large_image" />
-  <meta name="twitter:title" content="Power BI and E-commerce Analytics Blog - DataArcus" />
-  <meta name="twitter:description" content="Practical guides for MENA e-commerce leaders on Power BI, data modeling, and analytics strategy. Learn to track CLV, optimize marketing ROI, and more." />
+  <meta name="twitter:title" content="The Power BI Playbook: Guides for Gulf Teams - DataArcus" />
+  <meta name="twitter:description" content="Practical Power BI guides from real work for teams in the Gulf: Gulf calendars and Ramadan, Copilot-ready models, report design, DAX and licensing." />
   <meta name="twitter:image" content="https://dataarcus.com/assets/img/og/blog.jpg" />
   <meta name="twitter:image:alt" content="The DataArcus logo showing animated data bars and the brand name." />
   
@@ -79,8 +79,8 @@
     {
       "@context": "https://schema.org",
       "@type": "ItemList",
-      "name": "The E-commerce Analytics Playbook by DataArcus",
-      "description": "Engineering-first articles on Power BI, data modeling, and analytics strategy for e-commerce leaders in the MENA region.",
+      "name": "The Power BI Playbook by DataArcus",
+      "description": "Practical Power BI guides from real work for teams in the Gulf: Gulf calendars and Ramadan, Copilot-ready models, report design, DAX and licensing.",
       "url": "https://dataarcus.com/blog.html",
       "numberOfItems": 13,
       "itemListElement": [
@@ -262,8 +262,8 @@
 
   <header class="page-header">
     <div class="container text-center">
-        <h1 class="display-4 fw-bold" data-i18n="header.title">The E-commerce Analytics Playbook</h1>
-        <p class="lead text-white-50 col-lg-8 mx-auto" data-i18n="header.subtitle">Practical, engineering-first guides for MENA e-commerce leaders on Power BI, data modeling, and growth strategy, written by someone who builds them every day.</p>
+        <h1 class="display-4 fw-bold" data-i18n="header.title">The Power BI Playbook</h1>
+        <p class="lead text-white-50 col-lg-8 mx-auto" data-i18n="header.subtitle">Practical Power BI guides from real work for teams in the Gulf: Gulf calendars and Ramadan, Copilot-ready models, report design, DAX and licensing.</p>
     </div>
     </header>
 
@@ -291,7 +291,7 @@
         <div class="row mb-4">
         <div class="col-lg-8 mx-auto text-center">
             <h2 class="display-6 fw-bold mb-3" data-i18n="blog.sectionTitle">Latest from the Playbook</h2>
-            <p class="lead text-white-50" data-i18n="blog.sectionSubtitle">Practical Power BI guides from real work: Gulf calendars and Ramadan, Copilot-ready models, report design, DAX and licensing.</p>
+            <p class="lead text-white-50" data-i18n="blog.sectionSubtitle">Newest first. Pick a topic or search.</p>
         </div>
         </div>
 
@@ -541,14 +541,14 @@
             <div class="d-flex flex-wrap align-items-center justify-content-between gap-3 mb-3">
                 <h3 class="mb-0">
                 <i class="bi bi-lightning-charge-fill me-2 text-warning"></i>
-                <span data-i18n="subscribe.title">Get the Next E-commerce Playbook</span>
+                <span data-i18n="subscribe.title">Get the Next Power BI Guide</span>
                 </h3>
                 <span class="badge bg-primary" data-i18n="subscribe.badge">NO SPAM</span>
             </div>
 
             <div class="row align-items-center">
                 <div class="col-lg-8">
-                <p class="text-white-50 mb-3" data-i18n="subscribe.copy">A monthly, high-signal playbook on Power BI engineering and growth strategy for e-commerce leaders. No fluff-just what works.</p>
+                <p class="text-white-50 mb-3" data-i18n="subscribe.copy">New guides as they come out: Power BI for teams in the Gulf, from real work. No fluff, just what works.</p>
                 </div>
                 <div class="col-lg-4">
                 <a href="/#contact" class="btn btn-accent w-100">
@@ -622,7 +622,7 @@
   </footer>
 
   <script src="assets/js/translations/common.min.js?v=20261009h" defer></script>
-  <script src="assets/js/translations/blog.min.js?v=20261014a" defer></script>
+  <script src="assets/js/translations/blog.min.js?v=20261014b" defer></script>
   <script src="assets/js/lang-manager.min.js?v=20261009" defer></script>
 
   <script src="https://cdn.jsdelivr.net/npm/bootstrap@5.3.8/dist/js/bootstrap.min.js" integrity="sha384-G/EV+4j2dNv+tEPo3++6LCgdCROaejBqfUeNjuKAiuXbjrxilcCdDz6ZAVfHWe1Y" crossorigin="anonymous" defer></script>
